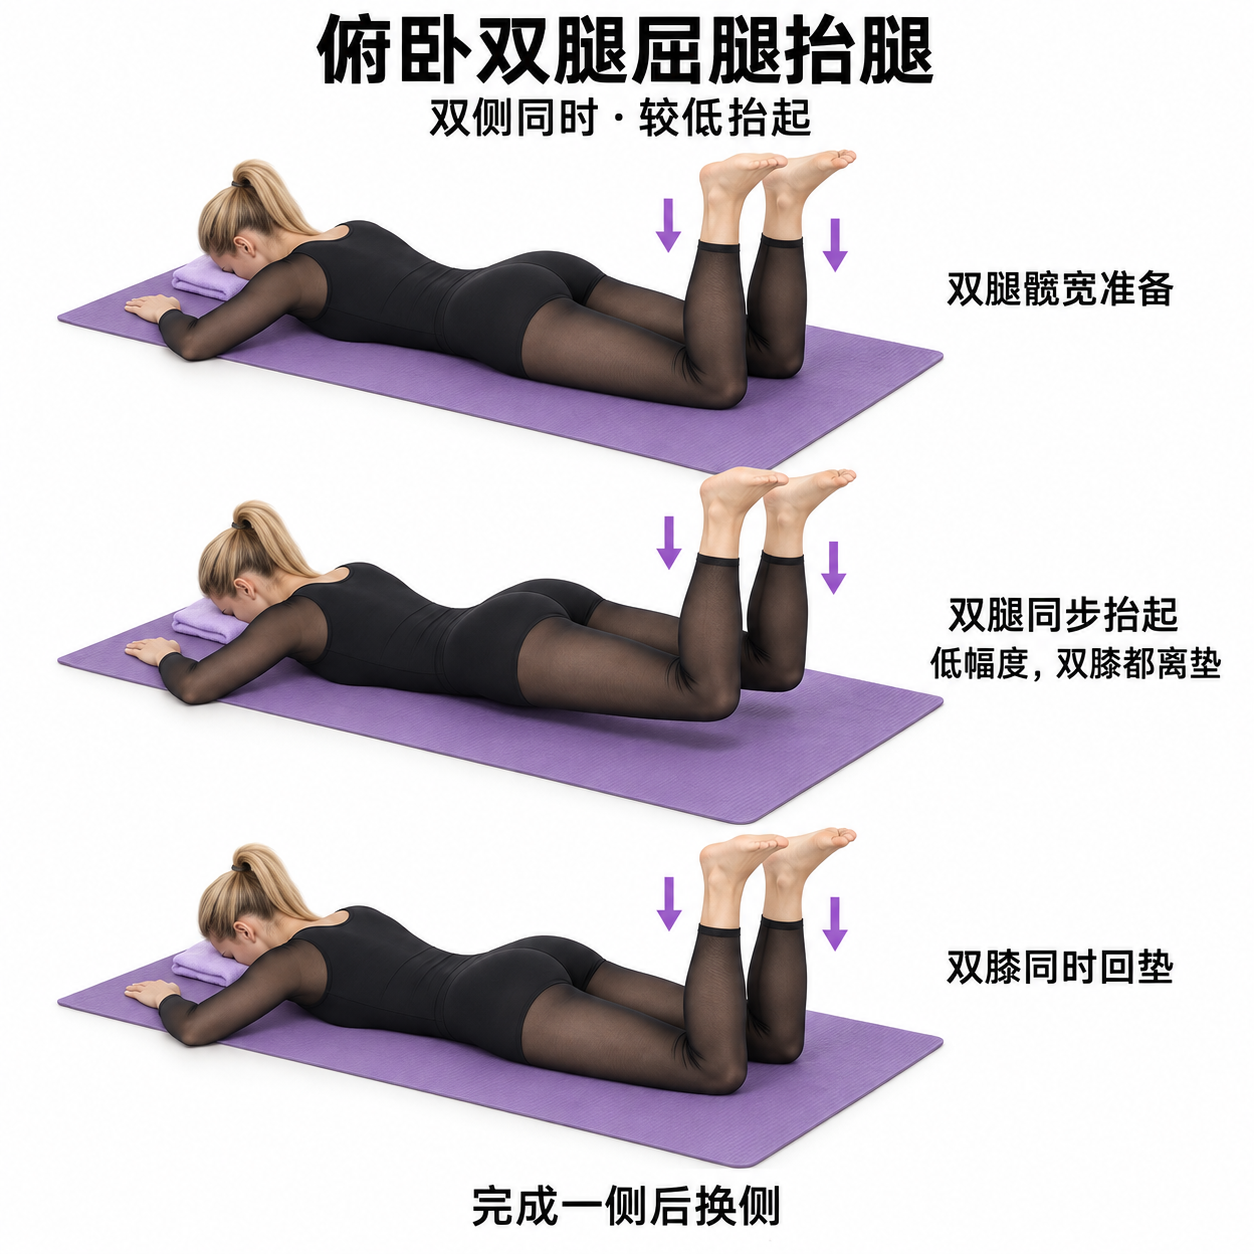
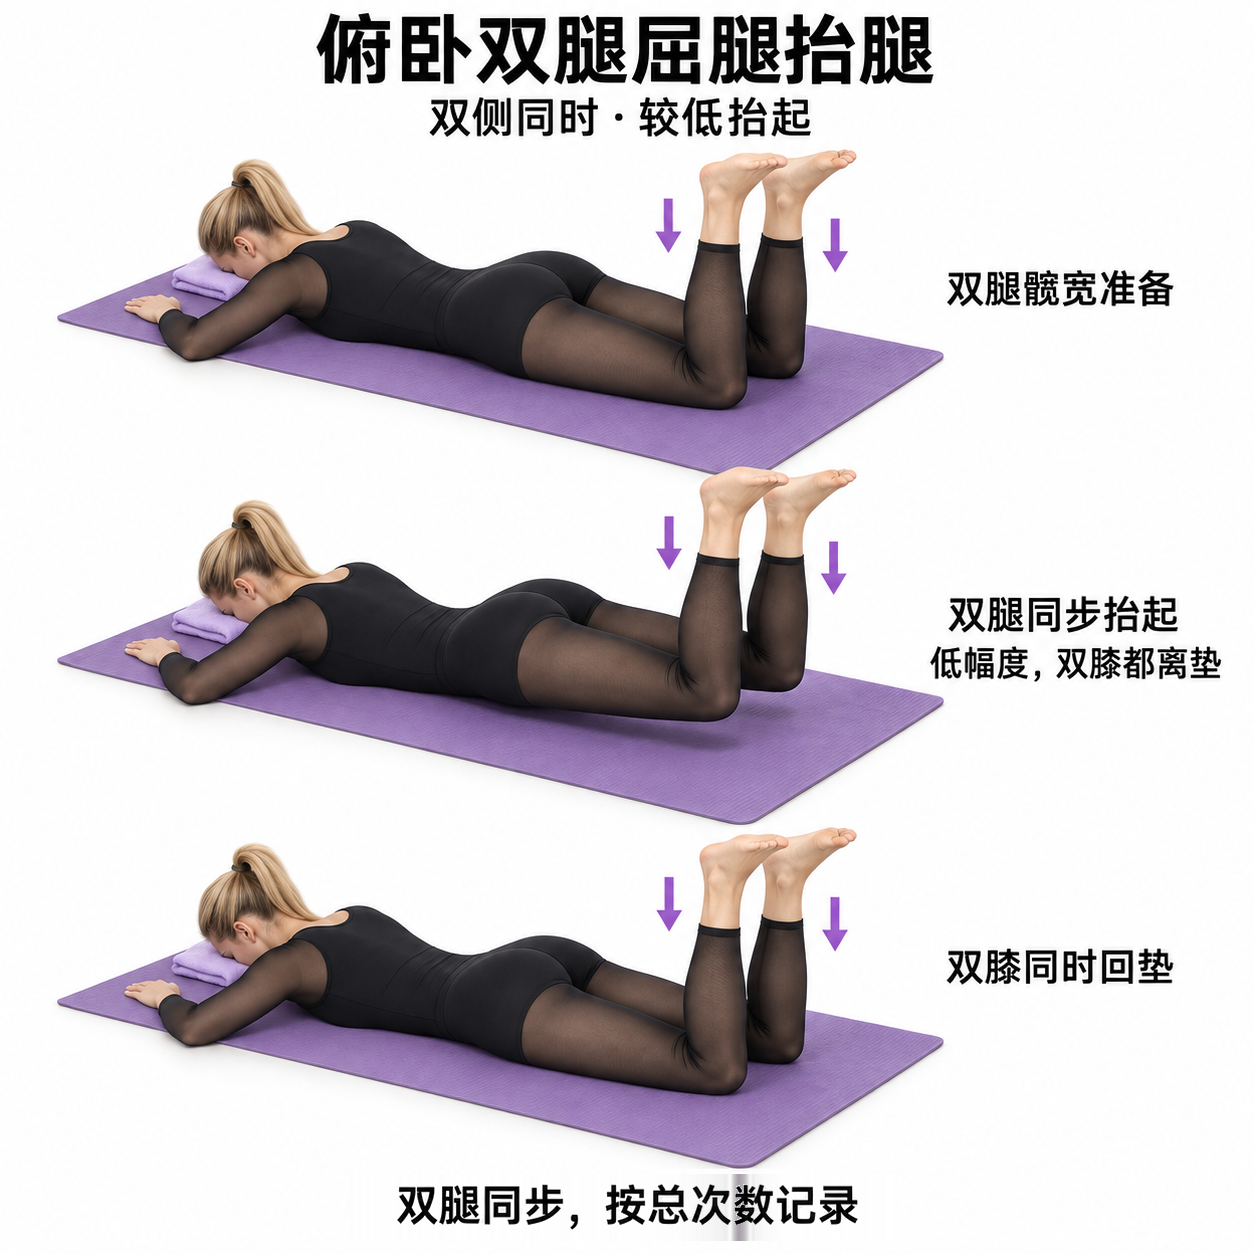
fix: correct bilateral leg raise illustration caption

Changed region(s): [[0.311, 0.933, 0.6842, 0.9952]]

diff --git a/tests/test_070_catalog_storage.py b/tests/test_070_catalog_storage.py
@@ -56,7 +56,7 @@ def test_program_catalog_is_reproducible_readonly_and_cwd_independent(tmp_path, 
     monkeypatch.chdir(unrelated)
     with CatalogRepository() as source, CatalogRepository(built) as copied:
         assert source.list() == copied.list()
-        assert copied.version == "070-illustrated-2"
+        assert copied.version == "070-illustrated-3"
         assert len(copied.list()) == 36
         assert len(list((built / "images").glob("*.png"))) == 36
         bridge = copied.get("launch.glute-bridge")

diff --git a/src/training_feedback/data/seed/catalog.py b/src/training_feedback/data/seed/catalog.py
@@ -1772,6 +1772,7 @@ _BUNDLED_CATALOG = (
             applicability="适合已能控制俯卧单侧屈腿抬腿，且能在双侧发力时保持腰盆稳定的人。",
             cautions="双腿同时抬起更易出现腰部代偿；若只能靠挺腰离垫，使用单侧或不离地版本。",
         ),
+        content_version=2,
     ),
 )
 

diff --git a/src/training_feedback/data/catalog_builder.py b/src/training_feedback/data/catalog_builder.py
@@ -17,7 +17,7 @@ from .seed.families import FAMILIES, catalog_classification
 from .seed.images import bundled_image_assets
 
 CATALOG_FORMAT_VERSION = 1
-CATALOG_VERSION = "070-illustrated-2"
+CATALOG_VERSION = "070-illustrated-3"
 
 
 def source_content() -> list[dict]:

diff --git a/docs/initial-exercises-and-plan.md b/docs/initial-exercises-and-plan.md
@@ -1,7 +1,7 @@
 # Initial Exercises And Plan Proposal
 
 Status: approved catalog scope; bundled guidance remains unreviewed and plan remains draft\
-Last updated: 2026-09-23
+Last updated: 2026-09-24
 
 This document defines the first catalog candidates and the initial plan used to
 develop and validate the application. It is not a medical assessment and its
@@ -16,9 +16,9 @@ movement clarifications and the two completed bridge-content revisions. Sections
 1–9 retain the still-valid catalog definitions and proposed doses carried forward
 into 0.7.0. The [current product rules](development-plan.md#12-current-catalog-and-group-contract)
 govern use. Catalog/workflow implementation and all 36 owned illustrations are
-delivered in current source (`070-illustrated-2`; images 2026-09-22, bridge revisions
-2026-09-23). Images are technically valid and unreviewed; the plan remains a
-proposal. External review and W4 are independent follow-ups, not local
+delivered in current source (`070-illustrated-3`; images 2026-09-22, bridge revisions
+2026-09-23, one image-caption correction 2026-09-24). Images are technically valid and
+externally unreviewed; the plan remains a proposal. External review and W4 are independent follow-ups, not local
 release blockers, under the user's 2026-09-23 decision.
 
 Under [development-data policy](development-plan.md#133-development-content-and-personal-data-transition),
@@ -113,7 +113,7 @@ to this repository's own seed data and must not be loaded from the old runtime.
 
 Current implementation: `data/seed/catalog.py` owns the guidance for all 36
 exercises. `data/seed/images.py` explicitly maps the 36 owned source PNGs, and
-`070-illustrated-2` contains one required, technically valid 1254×1254 image per
+`070-illustrated-3` contains one required, technically valid 1254×1254 image per
 entry. The 2026-09-22 image integration advanced every content version by one:
 current versions span v2–v5; standing forward fold is v5, single-knee-to-chest v4,
 straight-leg kickback v4, and donkey-kick pulse/prone straight-leg raise/prone
@@ -596,7 +596,7 @@ and explicit missing-image/unreviewed state. `data/seed/families.py` owns the
 executable mapping consumed by the program catalog build. Baseline hashes describe
 the historical annex's content envelope, not current content or stored history.
 The bridge technique and aliases in Section 10.1 are delivered in
-`070-illustrated-2`; earlier content identities and the frozen baseline remain historical.
+`070-illustrated-3`; earlier content identities and the frozen baseline remain historical.
 
 `src/training_feedback/catalog/` contains the current reproducible SQLite payload,
 36 PNGs and their manifest. Each entry has a required/available image reference and
@@ -662,6 +662,13 @@ retained the other 34 entries and all image bytes, and built `070-illustrated-2`
 Alias identity/search, reproducibility, resource hashes and retained local content
 were verified under dev scope `070-H1-CONTENT` (3/30 unique cases).
 The 13 initial-plan references remain a proposal and acquire no confirmed dose.
+
+On 2026-09-24 the user clarified that illustrations serve as references and written
+guidance governs movement details. The final caption in the image for
+`main.prone-double-bent-knee-leg-raise` now reads “双腿同步，按总次数记录” instead of
+the contradictory instruction to switch sides. This is the only content change in
+`070-illustrated-3`: that entry advances from v2 to v3, and the other 35 content
+hashes remain unchanged. The written guidance and initial plan were not revised.
 
 Missing/undecodable/mismatched required assets continue to block new use under the
 image gate. Technical readiness, review, enablement, plan confirmation and actual

diff --git a/docs/release-readiness-0.7.0.md b/docs/release-readiness-0.7.0.md
@@ -20,12 +20,13 @@ The detailed old review, test counts and completed cleanup are in
 | Area | State as of 2026-09-24 |
 | --- | --- |
 | Application / schema / contracts | Working source 0.7.0 / schema22; plan and evidence v2. No schema change is planned. |
-| Source identity | Complete reviewed 0.7.0 source commit; clean Git archive contains all 218 tracked files and reproduces the catalog byte-for-byte. The exact revision and archive hash are recorded in the SOURCE task evidence and handoff. |
+| Released candidate source identity | Complete reviewed 0.7.0 source commit; clean Git archive contains all 218 tracked files and reproduces its catalog byte-for-byte. The exact revision and archive hash are recorded in the SOURCE task evidence and handoff. |
 | Completed R1 | `2bbd179`, 2026-09-21: frozen synthetic DB tracked, byte-preserving Git attributes, 14/14 files verified through clone and ZIP archive. |
 | Completed R2 | `a274b70`, 2026-09-21: three-version support and pre-write refusal below schema14; focused dev verification 27/27. |
-| Current source catalog | `070-illustrated-2`: 36 entries, 36 required 1254×1254 PNGs, content and file hashes. Illustrations delivered 2026-09-22 and two bridge revisions delivered 2026-09-23; externally unreviewed. |
-| Content closeout | 070-H1-CONTENT complete: both bridge entries are v4, with the three-second hold and agreed aliases. Other 34 entries and all image bytes are unchanged. |
+| Current source catalog | `070-illustrated-3`: 36 entries, 36 required 1254×1254 PNGs, content and file hashes. One image caption was corrected 2026-09-24; externally unreviewed. |
+| Content closeout at 070-H1 | Both bridge entries reached v4, with the three-second hold and agreed aliases. At that task's completion the other 34 entries and all image bytes were unchanged. |
 | Current directory candidate | 2026-09-24 293-file build from clean `736223e`; payload manifest `e72dfdb7...9aa9`, EXE `dc7f24dd...e7e`, catalog `070-illustrated-2`. |
+| Candidate/source relationship | The verified installed 0.7.0 candidate predates the caption correction. Current source catalog `070-illustrated-3` has not been rebuilt into an installer or checked as an installed release. |
 | Current installer | 0.7.0 Setup `4fdf7f83...e889`, built with Inno Setup 6.7.3; Setup and EXE are unsigned, as disclosed for local release. |
 | Test selection | Resident collection 188. Default selection succeeds with 12 dev cases. Minor 63 plus recovery/conversion 18, overlap 4, actual union 77/100; all selected release cases pass. |
 | Historical/current contract check | Frozen inventory and v1 schema bytes are checked directly; current source, manifest, files and SQLite content are checked separately. The obsolete missing-image generator is retired. |
@@ -75,7 +76,7 @@ catalog reconstruction is deterministic; old references and snapshots remain
 readable. Reuse catalog reproducibility, library search and retained-history tests.
 Do not add another per-image content-acceptance round.
 
-Result: current source/payload is `070-illustrated-2`; only the two bridge entries
+Result at 070-H1 completion: source/payload was `070-illustrated-2`; only the two bridge entries
 advanced from v3 to v4. `launch.glute-bridge` is
[1 lines of base64/hex data omitted]
 `launch.butterfly-glute-bridge` is

diff --git a/docs/development-plan.md b/docs/development-plan.md
@@ -568,14 +568,18 @@ cover 01:59, 02:00, and 02:01.
 Current working source is **0.7.0 / schema22**, with plan/evidence v2.
 070-A–G, frozen-baseline repair R1 and version-window implementation R2 are complete;
 dated evidence lives in the [0.7.0 history](history/0.7.0/development.md).
-The current catalog is `070-illustrated-2`: 36 unreviewed entries with 36 technically
-valid bundled illustrations. Four video-informed guidance changes and the 36 images
-were delivered on 2026-09-22; the two bridge revisions were delivered on 2026-09-23.
+The current source catalog is `070-illustrated-3`: 36 externally unreviewed entries
+with 36 technically valid bundled illustrations. Four video-informed guidance changes
+and the 36 images were delivered on 2026-09-22; the two bridge revisions were delivered
+on 2026-09-23. On 2026-09-24, one prone bilateral leg-raise image caption was corrected
+to match the unchanged written guidance and total-repetition count.
 The 13-action initial plan remains a proposal.
 
 The current directory candidate and 0.7.0 Setup were built on 2026-09-24 from clean
 source revision `736223e`; the 293-file payload includes catalog `070-illustrated-2`.
 LOCAL-01—06 passed against the installed candidate with isolated synthetic data.
+That verified installed candidate predates the caption correction; the new source
+catalog has not been packaged or checked as an installed release.
 
 **Release decision, 2026-09-23:** local release requires only the four active tasks
 below. Independent Windows acceptance (070-H3/8-B2) and public-distribution

diff --git a/docs/guidance-review-runbook.md b/docs/guidance-review-runbook.md
@@ -16,7 +16,7 @@
 
 ## 1. 开发内容与材料准备
 
-1. 当前源catalog070-illustrated-2已交付36条指导和36张技术有效插图，均未外部复核。
+1. 当前源catalog070-illustrated-3已交付36条指导和36张技术有效插图，均未独立外部复核。
    按稳定键核对名称/别名、族/体位、内容与图片身份；未来真实审核优先初始计划13项，
    再覆盖其余条目。用户已选择直接关联现有36图，不新增逐图内容验收作为本地发布门槛。
 2. 修订以新的内容版本进入源内容，保留旧身份/快照；按最新格式和图片门槛构建 catalog。
